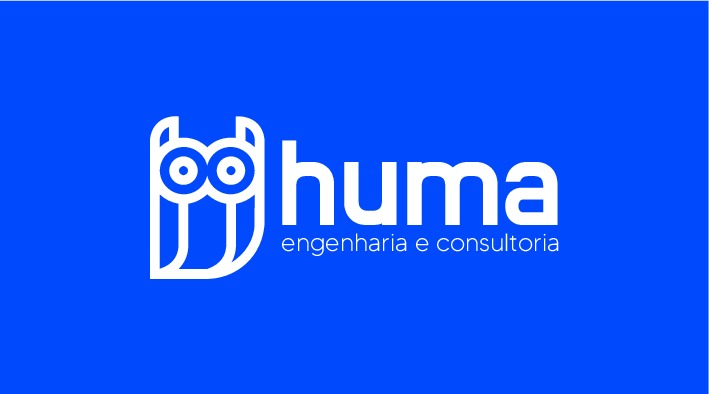
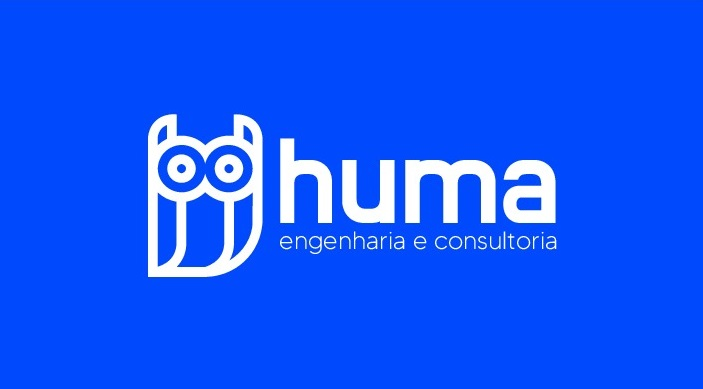
update content

diff --git a/css/style.css b/css/style.css
@@ -47,6 +47,10 @@ table {
 	border-spacing: 0;
 }
 
+body {
+    background-color: rgb(0,73,253);
+}
+
 header {
     height: 100px;
 }
@@ -58,6 +62,6 @@ header {
 }
 
 .image_container img {
-    
+    border: 0px;
 }
 
